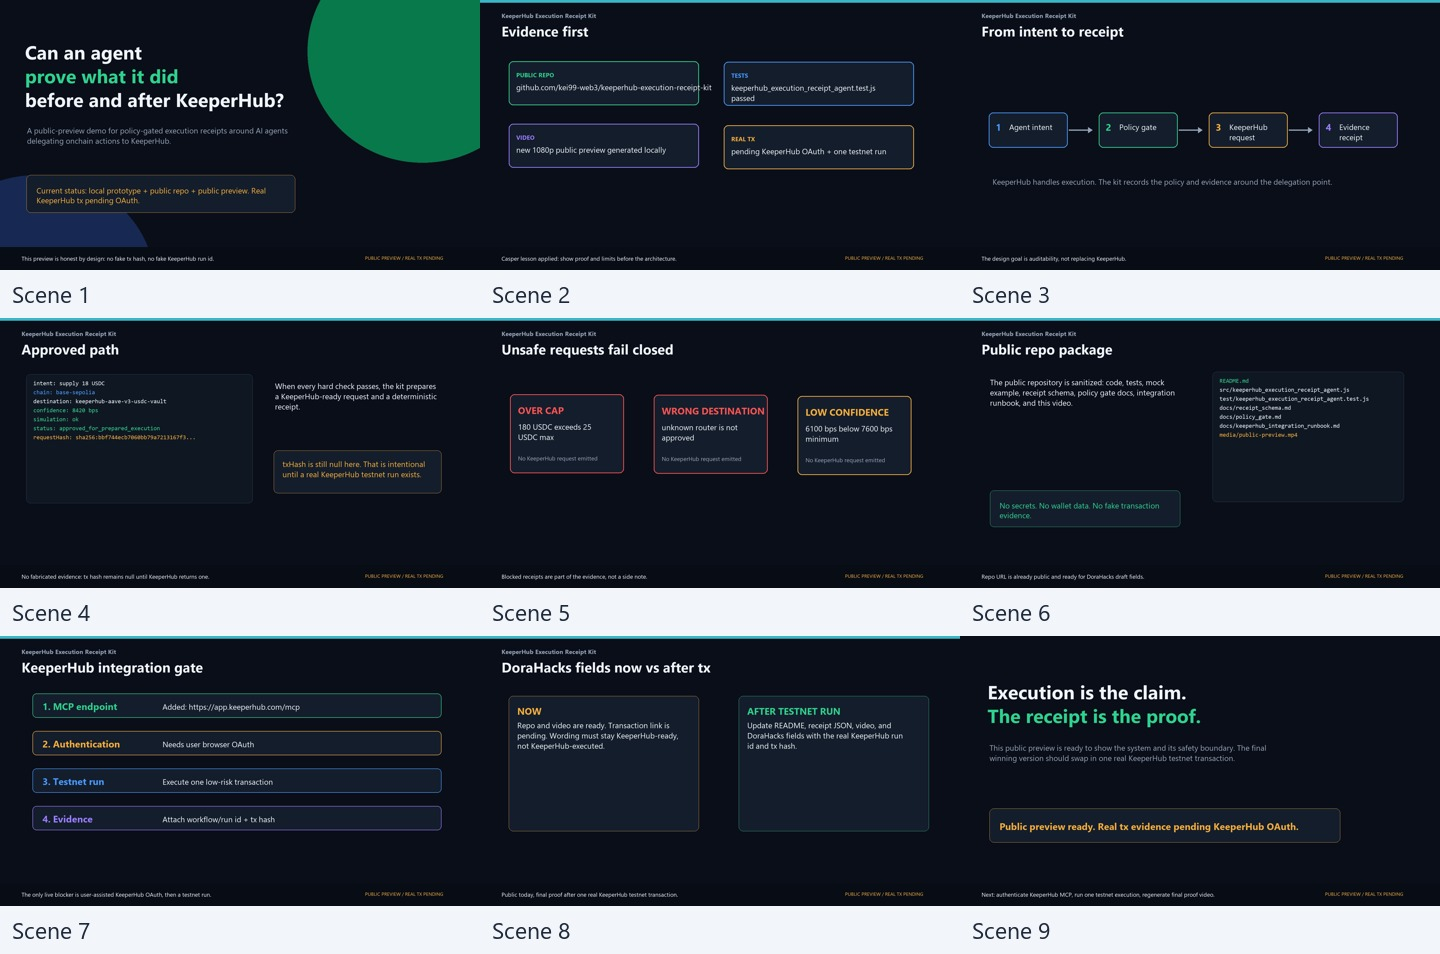
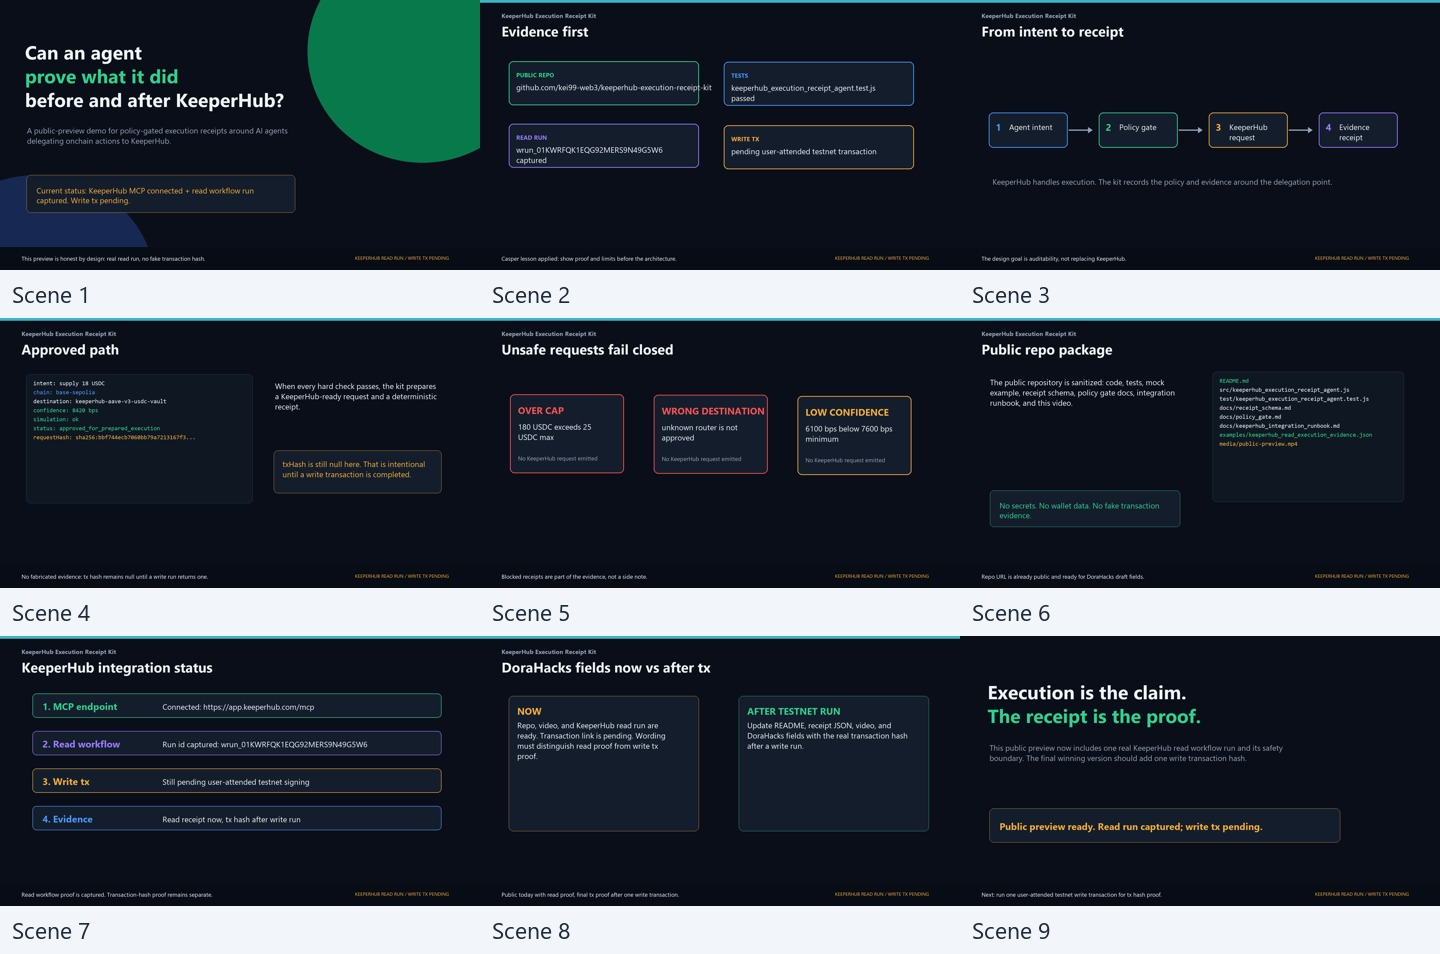
Add KeeperHub read workflow evidence

diff --git a/tools/render_public_preview_video.py b/tools/render_public_preview_video.py
@@ -119,7 +119,7 @@ def text_in_box(draw, box, text, fnt, fill=TEXT, pad=34, gap=10):
 def footer(draw, caption: str):
     draw.rectangle((0, H - 92, W, H), fill=(8, 12, 20))
     draw.text((86, H - 62), caption, font=F_SMALL, fill=TEXT)
-    draw.text((1460, H - 62), "PUBLIC PREVIEW / REAL TX PENDING", font=F_TINY, fill=AMBER)
+    draw.text((1420, H - 62), "KEEPERHUB READ RUN / WRITE TX PENDING", font=F_TINY, fill=AMBER)
 
 
 def header(draw, title: str, t: float):
@@ -151,8 +151,8 @@ def scene_hook(img, draw, p, receipts):
     text_block(draw, (108, 500), "A public-preview demo for policy-gated execution receipts around AI agents delegating onchain actions to KeeperHub.", F_BODY, MUTED, 1060)
     status_box = (106, 700, 1180, 850)
     rounded(draw, status_box, PANEL, outline=AMBER, radius=18)
-    text_in_box(draw, status_box, "Current status: local prototype + public repo + public preview. Real KeeperHub tx pending OAuth.", F_BODY, AMBER, pad=40, gap=8)
-    footer(draw, "This preview is honest by design: no fake tx hash, no fake KeeperHub run id.")
+    text_in_box(draw, status_box, "Current status: KeeperHub MCP connected + read workflow run captured. Write tx pending.", F_BODY, AMBER, pad=40, gap=8)
+    footer(draw, "This preview is honest by design: real read run, no fake transaction hash.")
 
 
 def scene_evidence_first(img, draw, p, receipts):
@@ -160,8 +160,8 @@ def scene_evidence_first(img, draw, p, receipts):
     cards = [
         ("PUBLIC REPO", "github.com/kei99-web3/keeperhub-execution-receipt-kit", GREEN),
         ("TESTS", "keeperhub_execution_receipt_agent.test.js passed", BLUE),
-        ("VIDEO", "new 1080p public preview generated locally", PURPLE),
-        ("REAL TX", "pending KeeperHub OAuth + one testnet run", AMBER),
+        ("READ RUN", "wrun_01KWRFQK1EQG92MERS9N49G5W6 captured", PURPLE),
+        ("WRITE TX", "pending user-attended testnet transaction", AMBER),
     ]
     for i, (label, value, color) in enumerate(cards):
         x = 115 + (i % 2) * 860
@@ -211,8 +211,8 @@ def scene_approved(img, draw, p, receipts):
     ])
     text_block(draw, (1100, 250), "When every hard check passes, the kit prepares a KeeperHub-ready request and a deterministic receipt.", F_BODY, TEXT, 650)
     rounded(draw, (1095, 530, 1765, 700), PANEL, outline=AMBER, radius=16)
-    text_block(draw, (1130, 562), "txHash is still null here. That is intentional until a real KeeperHub testnet run exists.", F_BODY, AMBER, 590)
-    footer(draw, "No fabricated evidence: tx hash remains null until KeeperHub returns one.")
+    text_block(draw, (1130, 562), "txHash is still null here. That is intentional until a write transaction is completed.", F_BODY, AMBER, 590)
+    footer(draw, "No fabricated evidence: tx hash remains null until a write run returns one.")
 
 
 def scene_fail_closed(img, draw, p, receipts):
@@ -243,6 +243,7 @@ def scene_repo(img, draw, p, receipts):
         ("docs/receipt_schema.md", TEXT),
         ("docs/policy_gate.md", TEXT),
         ("docs/keeperhub_integration_runbook.md", TEXT),
+        ("examples/keeperhub_read_execution_evidence.json", GREEN),
         ("media/public-preview.mp4", AMBER),
     ])
     proof_box = (120, 690, 880, 835)
@@ -252,19 +253,19 @@ def scene_repo(img, draw, p, receipts):
 
 
 def scene_keeperhub_pending(img, draw, p, receipts):
-    header(draw, "KeeperHub integration gate", p)
+    header(draw, "KeeperHub integration status", p)
     steps = [
-        ("MCP endpoint", "Added: https://app.keeperhub.com/mcp", GREEN),
-        ("Authentication", "Needs user browser OAuth", AMBER),
-        ("Testnet run", "Execute one low-risk transaction", BLUE),
-        ("Evidence", "Attach workflow/run id + tx hash", PURPLE),
+        ("MCP endpoint", "Connected: https://app.keeperhub.com/mcp", GREEN),
+        ("Read workflow", "Run id captured: wrun_01KWRFQK1EQG92MERS9N49G5W6", PURPLE),
+        ("Write tx", "Still pending user-attended testnet signing", AMBER),
+        ("Evidence", "Read receipt now, tx hash after write run", BLUE),
     ]
     for i, (title, body, color) in enumerate(steps):
         y = 230 + i * 150
         rounded(draw, (130, y, 1765, y + 96), PANEL, outline=color, width=2, radius=16)
         draw.text((170, y + 25), f"{i + 1}. {title}", font=F_H2, fill=color)
         draw.text((650, y + 31), body, font=F_BODY, fill=TEXT)
-    footer(draw, "The only live blocker is user-assisted KeeperHub OAuth, then a testnet run.")
+    footer(draw, "Read workflow proof is captured. Transaction-hash proof remains separate.")
 
 
 def scene_submission(img, draw, p, receipts):
@@ -274,19 +275,19 @@ def scene_submission(img, draw, p, receipts):
     rounded(draw, left, PANEL, outline=AMBER, radius=18)
     rounded(draw, right, PANEL, outline=GREEN, radius=18)
     draw.text((left[0] + 34, left[1] + 34), "NOW", font=F_H2, fill=AMBER)
-    text_block(draw, (left[0] + 34, left[1] + 95), "Repo and video are ready. Transaction link is pending. Wording must stay KeeperHub-ready, not KeeperHub-executed.", F_BODY, TEXT, 650)
+    text_block(draw, (left[0] + 34, left[1] + 95), "Repo, video, and KeeperHub read run are ready. Transaction link is pending. Wording must distinguish read proof from write tx proof.", F_BODY, TEXT, 650)
     draw.text((right[0] + 34, right[1] + 34), "AFTER TESTNET RUN", font=F_H2, fill=GREEN)
-    text_block(draw, (right[0] + 34, right[1] + 95), "Update README, receipt JSON, video, and DoraHacks fields with the real KeeperHub run id and tx hash.", F_BODY, TEXT, 650)
-    footer(draw, "Public today, final proof after one real KeeperHub testnet transaction.")
+    text_block(draw, (right[0] + 34, right[1] + 95), "Update README, receipt JSON, video, and DoraHacks fields with the real transaction hash after a write run.", F_BODY, TEXT, 650)
+    footer(draw, "Public today with read proof, final tx proof after one write transaction.")
 
 
 def scene_close(img, draw, p, receipts):
     draw.text((110, 170), "Execution is the claim.", font=F_TITLE, fill=TEXT)
     draw.text((110, 265), "The receipt is the proof.", font=F_TITLE, fill=GREEN)
-    text_block(draw, (118, 425), "This public preview is ready to show the system and its safety boundary. The final winning version should swap in one real KeeperHub testnet transaction.", F_BODY, MUTED, 1180)
+    text_block(draw, (118, 425), "This public preview now includes one real KeeperHub read workflow run and its safety boundary. The final winning version should add one write transaction hash.", F_BODY, MUTED, 1180)
     rounded(draw, (118, 690, 1520, 825), PANEL, outline=AMBER, radius=18)
-    draw.text((158, 735), "Public preview ready. Real tx evidence pending KeeperHub OAuth.", font=F_H2, fill=AMBER)
-    footer(draw, "Next: authenticate KeeperHub MCP, run one testnet execution, regenerate final proof video.")
+    draw.text((158, 735), "Public preview ready. Read run captured; write tx pending.", font=F_H2, fill=AMBER)
+    footer(draw, "Next: run one user-attended testnet write transaction for tx hash proof.")
 
 
 SCENES = [

diff --git a/README.md b/README.md
@@ -4,13 +4,13 @@ Policy-gated execution receipts for AI agents preparing KeeperHub onchain workfl
 
 ## Status
 
-This repository candidate is a local prototype. It does not execute transactions, authenticate with KeeperHub, use a wallet, call an API, or publish anything externally.
+This repository now includes one authenticated KeeperHub read workflow execution. It still does not claim a submitted transaction hash, because the captured run was a read-only Base Sepolia balance check.
 
 Current honest claim:
 
-> The kit generates KeeperHub-ready execution requests and audit-ready receipt records, then blocks unsafe requests fail-closed.
+> The kit generates KeeperHub-ready execution requests and audit-ready receipt records, blocks unsafe requests fail-closed, and includes one real KeeperHub read workflow run as execution evidence.
 
-The project should only claim real KeeperHub execution after a user-approved KeeperHub run produces an actual workflow/run id and transaction hash.
+The project should only claim transaction execution after a user-approved KeeperHub write run produces an actual transaction hash. The current evidence is a real KeeperHub workflow/run id for a read-only action.
 
 ## Why This Exists
 
@@ -32,6 +32,23 @@ KeeperHub is the execution layer. This kit is the receipt and policy layer aroun
 - Low-confidence fail-closed escalation
 - Deterministic intent, policy, request, and receipt hashes
 - Placeholder fields for real KeeperHub workflow/run evidence
+- Real KeeperHub read workflow evidence for Base Sepolia balance checking
+
+## Real KeeperHub Read Evidence
+
+Captured on 2026-07-05:
+
+- Workflow ID: `undydd3dmaeykbzmky9ik`
+- Execution ID: `bh1dkp3uur0u41ftwivft`
+- Run ID: `wrun_01KWRFQK1EQG92MERS9N49G5W6`
+- Workflow type: `read`
+- Trigger: `manual`
+- Chain: Base Sepolia (`84532`)
+- Action: `web3/check-balance`
+- Target wallet: `0xE2DCfA30895757BaEEFAE53568C2dc9fa422815D`
+- Result: success, `0 wei`
+- Transaction hashes: none, because this was read-only
+- Evidence JSON: `examples/keeperhub_read_execution_evidence.json`
 
 ## Run Locally
 
@@ -49,17 +66,21 @@ Public preview video:
 - `media/keeperhub-execution-receipt-public-preview.mp4`
 - `media/keeperhub-execution-receipt-public-preview-contact-sheet.jpg`
 
-This public preview is intentionally marked as pre-transaction evidence. After a user-approved KeeperHub testnet run, replace it with a final video that includes the real workflow/run id and transaction hash.
+This public preview is marked as KeeperHub read-run evidence with write transaction evidence still pending. After a user-approved KeeperHub testnet write run, replace it with a final video that includes the transaction hash.
 
 ## Planned KeeperHub Integration
 
-After explicit user approval:
+Completed:
 
-1. Connect to KeeperHub through the recommended remote MCP endpoint or approved CLI/plugin path.
-2. Create or select one minimal testnet workflow.
-3. Execute exactly one low-risk transaction through KeeperHub.
-4. Attach the resulting workflow/run id, transaction hash, chain, timestamp, gas/outcome, and audit URL to the receipt.
-5. Update the README, demo output, and hackathon submission fields with exact evidence.
+1. Connected to KeeperHub through the remote MCP endpoint.
+2. Created and validated one minimal read-only Base Sepolia workflow.
+3. Executed the workflow manually and captured workflow/run evidence.
+
+Still pending for transaction-hash proof:
+
+1. Fund or select a testnet wallet path.
+2. Execute exactly one low-risk KeeperHub write action with user-attended signing.
+3. Attach the resulting transaction hash, chain, timestamp, gas/outcome, and audit URL to the receipt.
 
 ## Safety Boundary
 

diff --git a/docs/keeperhub_integration_runbook.md b/docs/keeperhub_integration_runbook.md
@@ -1,6 +1,6 @@
 # KeeperHub Integration Runbook
 
-This runbook is for a future approved KeeperHub proof run. It is not an instruction to authenticate or transact automatically.
+This runbook records the current KeeperHub proof path. A read-only workflow run has been completed; transaction-hash proof remains a separate user-attended step.
 
 ## Preferred Integration Surface
 
@@ -10,21 +10,36 @@ Use KeeperHub's remote MCP endpoint:
 claude mcp add --transport http keeperhub https://app.keeperhub.com/mcp
 ```
 
-Then the user completes browser OAuth authorization inside Claude Code.
+Then the user completes browser OAuth authorization inside Claude Code. This was completed on 2026-07-05.
 
 ## Proof Run Goal
 
-Execute one minimal, low-risk testnet transaction through KeeperHub and attach the returned evidence to a receipt.
+Completed read proof: execute one minimal Base Sepolia `web3/check-balance` workflow through KeeperHub and attach the returned run evidence to a receipt.
+
+Pending write proof: execute one minimal, low-risk testnet transaction through KeeperHub and attach the returned transaction evidence to a receipt.
 
 ## Evidence To Save
 
 - KeeperHub workflow/run id
-- transaction hash
+- transaction hash, only for write proof
 - chain and network
 - timestamp
 - gas or fee data, if available
 - outcome
 - audit/run URL or safe screenshot
+
+## Completed Read Evidence
+
+- Workflow ID: `undydd3dmaeykbzmky9ik`
+- Execution ID: `bh1dkp3uur0u41ftwivft`
+- Run ID: `wrun_01KWRFQK1EQG92MERS9N49G5W6`
+- Workflow type: `read`
+- Trigger: `manual`
+- Chain: Base Sepolia (`84532`)
+- Action: `web3/check-balance`
+- Target wallet: `0xE2DCfA30895757BaEEFAE53568C2dc9fa422815D`
+- Result: success, `0 wei`
+- Transaction hashes: none, because the run was read-only
 
 ## Stop Conditions
 
@@ -38,4 +53,4 @@ Stop if:
 
 ## Public Submission Note
 
-Before a real KeeperHub run exists, describe this project as a local KeeperHub-ready prototype. After a run exists, describe exactly one approved KeeperHub testnet execution and link the real transaction evidence.
+Describe the current project as a KeeperHub-ready receipt kit with one real KeeperHub read workflow run. Do not describe it as transaction-hash proof until a separate write transaction is completed.